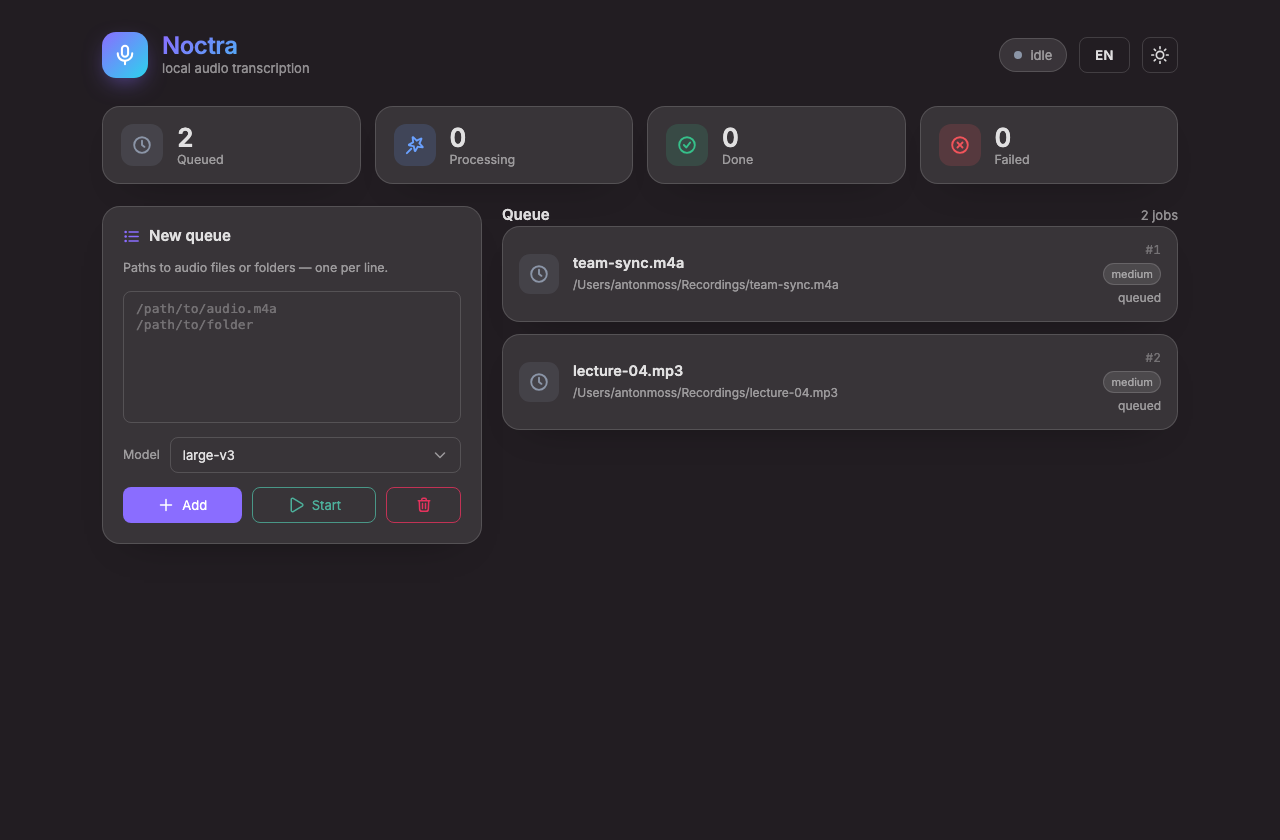
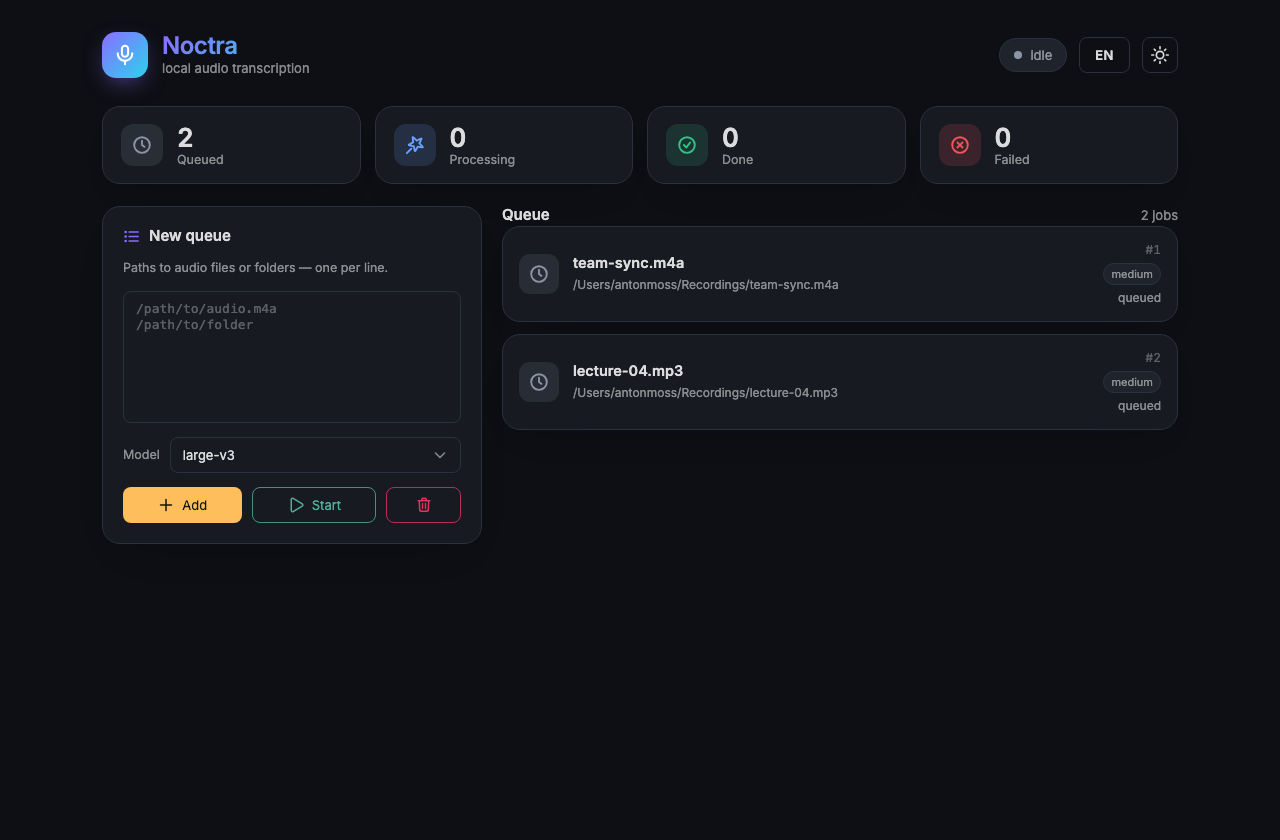
Cool the dark-theme surfaces; revert brand recolor
The complaint was the warm/magenta cast of the page and card backgrounds, not
the buttons. Restore Gravity's default (amber) brand, and instead repaint the
dark-theme base elevation tokens (background, generic, float, lines) to a cool
slate so the page and modules read as a clean neutral dark. Refreshed demo.png.

diff --git a/frontend/src/index.css b/frontend/src/index.css
@@ -10,31 +10,21 @@
     --tone-warning: #efa13c;
 }
 
-/* Repaint Gravity UI's brand colour from its default amber/yellow to Noctra's
-   violet accent. Drives the primary ("action") button, focus rings, selection
-   highlight and links across both themes. */
-.g-root {
-    --g-color-base-brand: var(--noctra-accent);
-    --g-color-base-brand-hover: #7a5cf0;
-    --g-color-line-brand: var(--noctra-accent);
-    --g-color-line-focus: var(--noctra-accent);
-    --g-color-text-brand-contrast: #fff;
-    --g-color-base-selection: color-mix(in srgb, var(--noctra-accent) 28%, transparent);
-    --g-color-base-selection-hover: color-mix(in srgb, var(--noctra-accent) 40%, transparent);
-}
-
+/* Gravity's stock dark surfaces carry a warm/magenta cast (green channel sits
+   below red & blue). Repaint the base elevation tokens to a cool slate so the
+   page and the cards/inputs read as a clean, neutral dark. */
 .g-root_theme_dark {
-    --g-color-text-brand: #a78bff;
-    --g-color-text-brand-heavy: #b9a6ff;
-    --g-color-text-link: #a78bff;
-    --g-color-text-link-hover: #c4b5ff;
-}
-
-.g-root_theme_light {
-    --g-color-text-brand: #6b4ddb;
-    --g-color-text-brand-heavy: #5a3fc0;
-    --g-color-text-link: #6b4ddb;
-    --g-color-text-link-hover: #5a3fc0;
+    --g-color-base-background: #0d0f14;
+    --g-color-base-generic: #1f232c;
+    --g-color-base-generic-hover: #262b35;
+    --g-color-base-generic-accent: #2a303b;
+    --g-color-base-generic-accent-disabled: #1a1e25;
+    --g-color-base-simple-hover: #1c2027;
+    --g-color-base-float: #171a21;
+    --g-color-base-float-hover: #1d212a;
+    --g-color-base-float-heavy: #20242d;
+    --g-color-line-generic: #2b313c;
+    --g-color-line-generic-hover: #3a4150;
 }
 
 * {